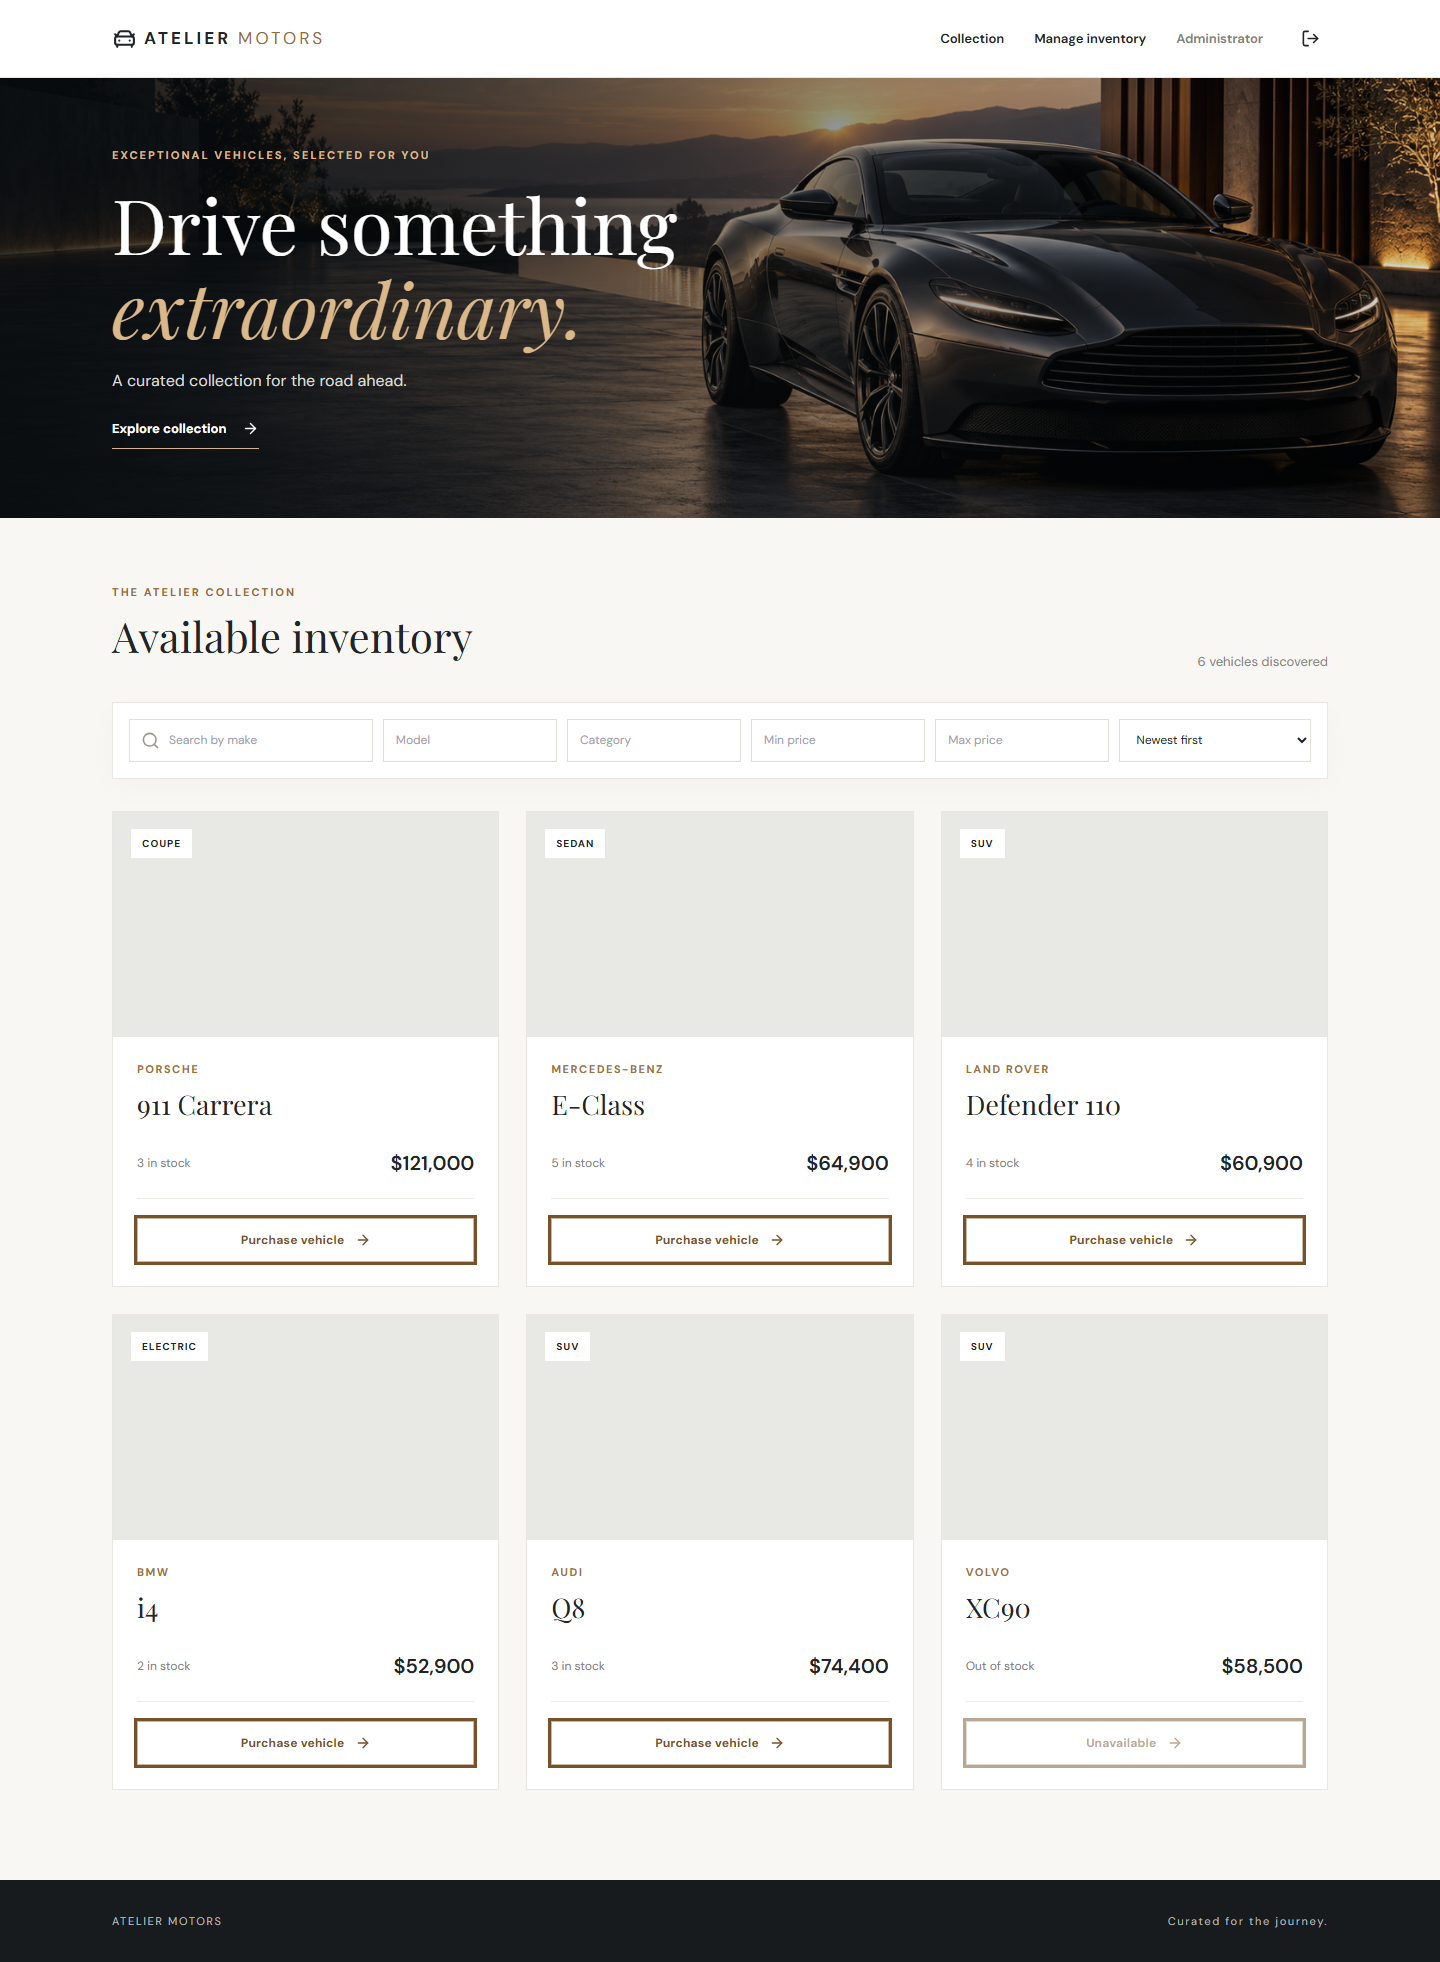
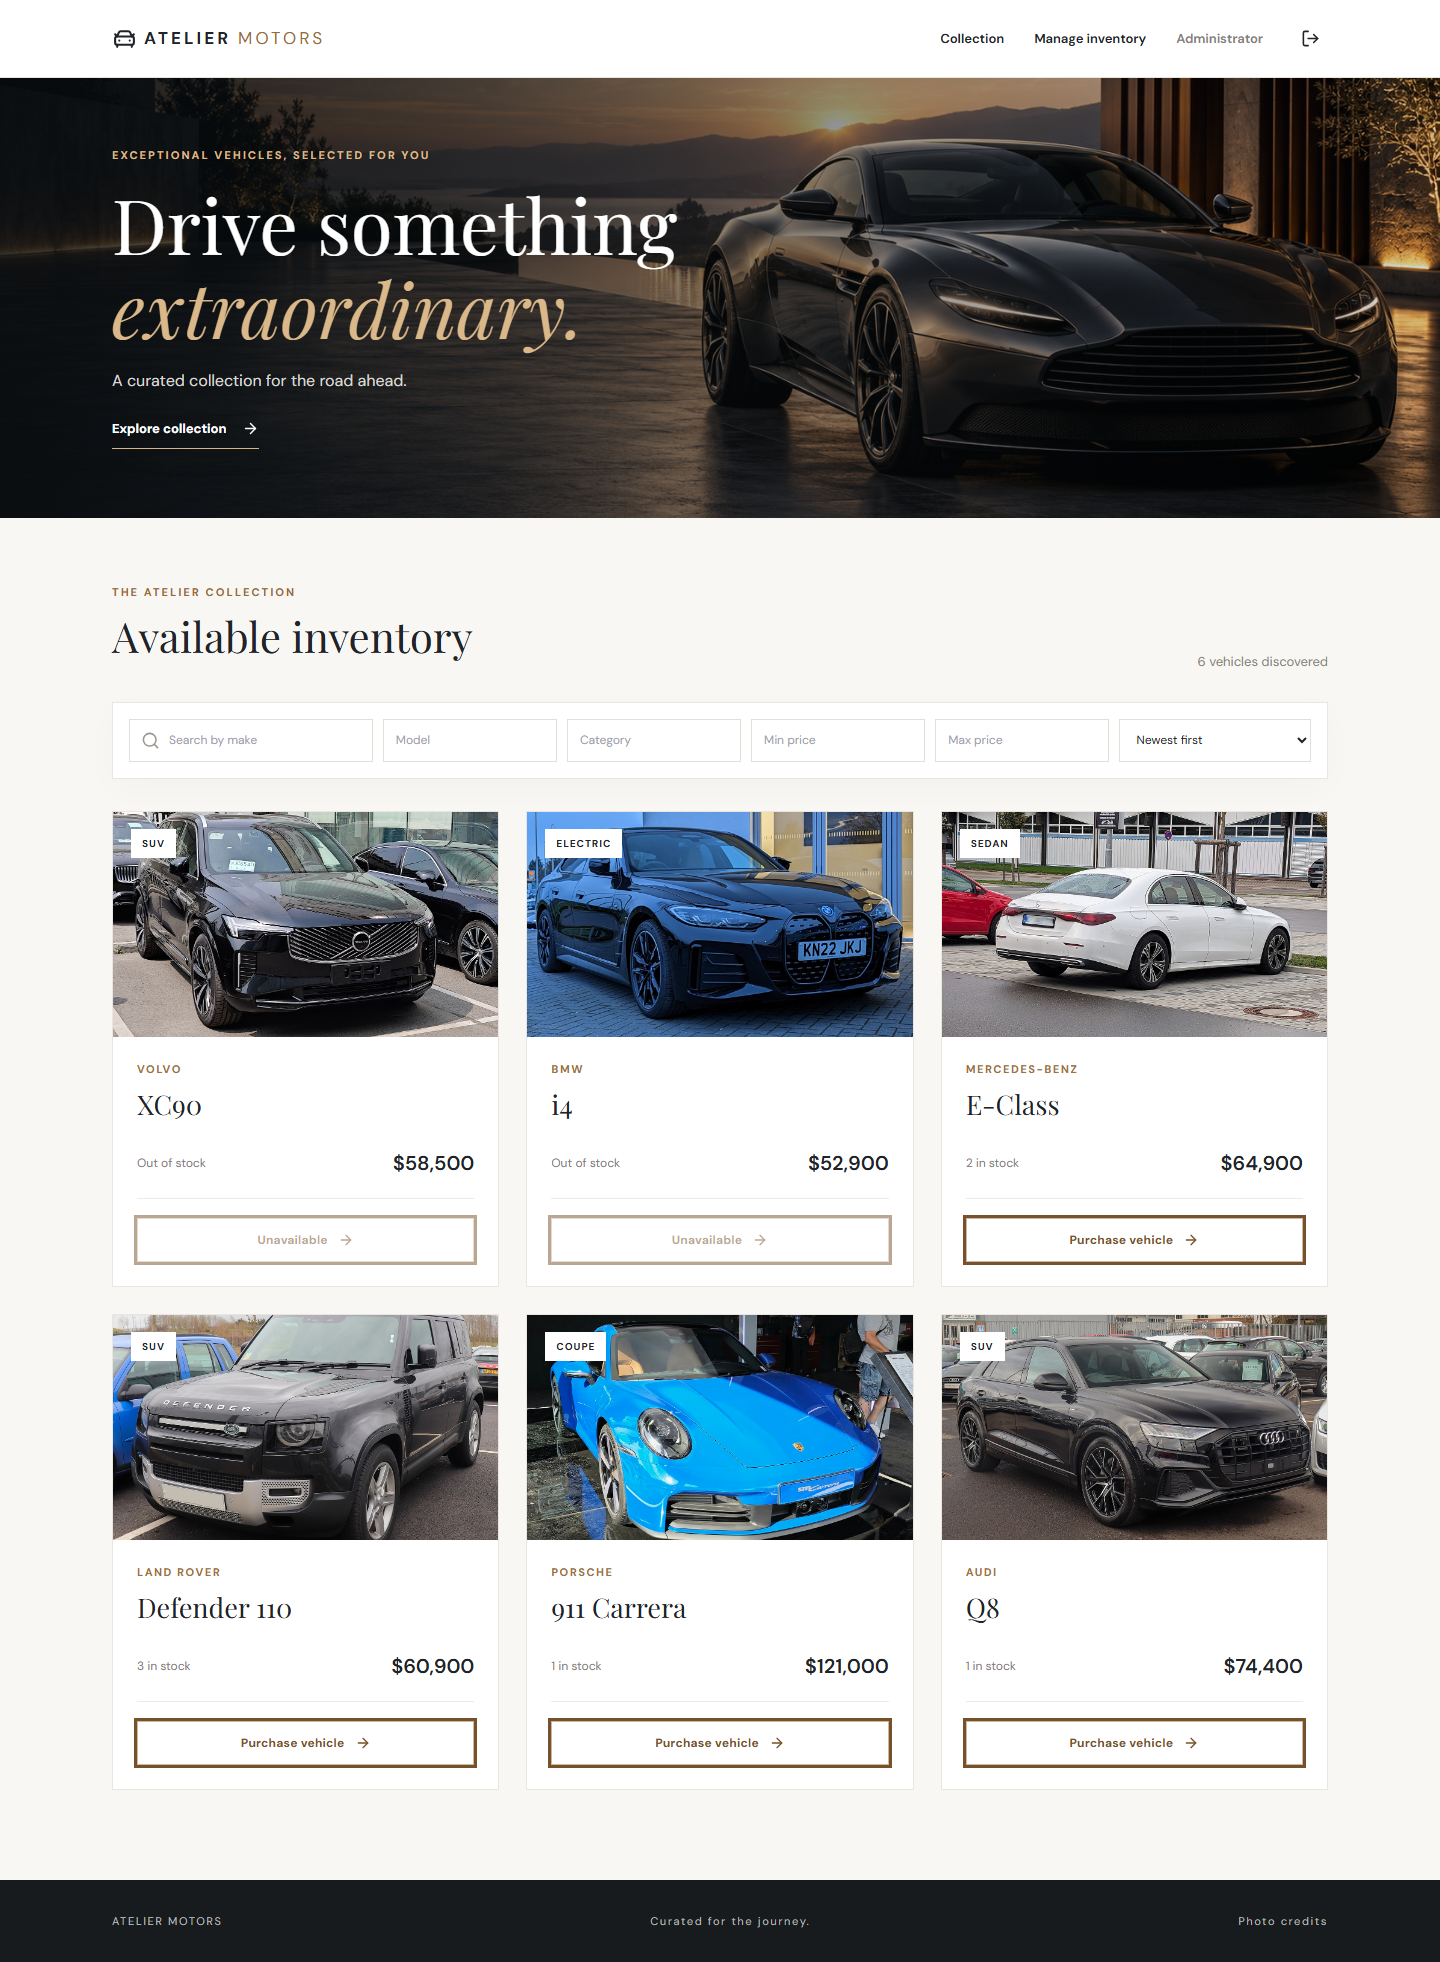
Use verified photos for each seeded vehicle model

diff --git a/apps/web/src/App.tsx b/apps/web/src/App.tsx
@@ -13,12 +13,12 @@ const registerSchema=authSchema.extend({name:z.string().min(2)});
 const vehicleSchema=z.object({make:z.string().min(1),model:z.string().min(1),category:z.string().min(1),price:z.coerce.number().min(0),quantity:z.coerce.number().int().min(0)});
 type VehicleInput=z.infer<typeof vehicleSchema>;
 const photos:Record<string,string>={
-  Porsche:'https://images.unsplash.com/photo-1503376780353-7e6692767b70?w=1000&q=80',
-  'Mercedes-Benz':'https://images.unsplash.com/photo-1618843479313-40f8afb4b4d8?w=1000&q=80',
-  'Land Rover':'https://images.unsplash.com/photo-1519641471654-76ce0107ad1b?w=1000&q=80',
-  BMW:'https://images.unsplash.com/photo-1555215695-3004980ad54e?w=1000&q=80',
-  Audi:'https://images.unsplash.com/photo-1606664515524-ed2f786a0bd6?w=1000&q=80',
-  Volvo:'https://images.unsplash.com/photo-1566933293069-b55c7f326dd4?w=1000&q=80'
+  'Porsche 911 Carrera':'/images/vehicles/porsche-911-carrera.jpg',
+  'Mercedes-Benz E-Class':'/images/vehicles/mercedes-benz-e-class.jpg',
+  'Land Rover Defender 110':'/images/vehicles/land-rover-defender-110.jpg',
+  'BMW i4':'/images/vehicles/bmw-i4.jpg',
+  'Audi Q8':'/images/vehicles/audi-q8.jpg',
+  'Volvo XC90':'/images/vehicles/volvo-xc90.jpg'
 };
 function money(value:string|number){return new Intl.NumberFormat('en-US',{style:'currency',currency:'USD',maximumFractionDigits:0}).format(Number(value))}
 function AuthPage({register=false}:{register?:boolean}){
@@ -33,7 +33,7 @@ function Inventory(){const [filters,setFilters]=useState({make:'',model:'',categ
   useEffect(()=>{void load()},[load]);
   function change(key:keyof typeof filters,value:string){setFilters(f=>({...f,[key]:value,page:1}))}
   async function purchase(vehicle:Vehicle){if(!confirm(`Purchase one ${vehicle.make} ${vehicle.model}?`))return;setBusy(vehicle.id);setMessage('');try{await vehicleApi.purchase(vehicle.id);setMessage(`Your ${vehicle.make} ${vehicle.model} purchase is confirmed.`);await load()}catch(e){setError((e as Error).message)}finally{setBusy(null)}}
-  return <><Header/><section className="hero"><div className="container"><p className="eyebrow light">EXCEPTIONAL VEHICLES, SELECTED FOR YOU</p><h1>Drive something<br/><em>extraordinary.</em></h1><p>A curated collection for the road ahead.</p><a href="#collection" className="hero-link">Explore collection <ArrowRight size={17}/></a></div></section><main id="collection" className="container collection"><div className="section-heading"><div><p className="eyebrow">THE ATELIER COLLECTION</p><h2>Available inventory</h2></div><p>{result?.total??'—'} vehicles discovered</p></div><div className="filter-bar"><label className="search-field"><Search size={19}/><input aria-label="Search make" placeholder="Search by make" value={filters.make} onChange={e=>change('make',e.target.value)}/></label><input aria-label="Model" placeholder="Model" value={filters.model} onChange={e=>change('model',e.target.value)}/><input aria-label="Category" placeholder="Category" value={filters.category} onChange={e=>change('category',e.target.value)}/><input aria-label="Minimum price" type="number" min="0" placeholder="Min price" value={filters.minPrice} onChange={e=>change('minPrice',e.target.value)}/><input aria-label="Maximum price" type="number" min="0" placeholder="Max price" value={filters.maxPrice} onChange={e=>change('maxPrice',e.target.value)}/><select aria-label="Sort vehicles" value={filters.sort} onChange={e=>change('sort',e.target.value)}><option value="newest">Newest first</option><option value="priceAsc">Price: low to high</option><option value="priceDesc">Price: high to low</option><option value="make">Make: A–Z</option></select></div>{message&&<p className="notice success" role="status">{message}</p>}{error&&<p className="notice error" role="alert">{error}</p>}{!result&&!error&&<p className="state">Loading the collection…</p>}{result?.items.length===0&&<p className="state">No vehicles match your filters. Try a broader search.</p>}<div className="vehicle-grid">{result?.items.map(v=><article className="vehicle-card" key={v.id}><div className="vehicle-image">{photos[v.make]?<img src={photos[v.make]} alt={`${v.make} ${v.model}`} loading="lazy"/>:<div className="image-fallback"><CarFront size={58}/></div>}<span className="category-badge">{v.category}</span></div><div className="vehicle-body"><p className="card-make">{v.make}</p><h3>{v.model}</h3><div className="vehicle-meta"><span>{v.quantity>0?`${v.quantity} in stock`:'Out of stock'}</span><strong>{money(v.price)}</strong></div><button className="btn outline full" disabled={v.quantity===0||busy===v.id} onClick={()=>purchase(v)}>{busy===v.id?'Processing…':v.quantity===0?'Unavailable':'Purchase vehicle'}<ArrowRight size={16}/></button></div></article>)}</div>{result&&result.total>result.limit&&<div className="pagination"><button disabled={filters.page===1} onClick={()=>setFilters(f=>({...f,page:f.page-1}))}>Previous</button><span>Page {filters.page} of {Math.ceil(result.total/result.limit)}</span><button disabled={filters.page*result.limit>=result.total} onClick={()=>setFilters(f=>({...f,page:f.page+1}))}>Next</button></div>}</main><footer><div className="container"><span>ATELIER MOTORS</span><span>Curated for the journey.</span></div></footer></>}
+  return <><Header/><section className="hero"><div className="container"><p className="eyebrow light">EXCEPTIONAL VEHICLES, SELECTED FOR YOU</p><h1>Drive something<br/><em>extraordinary.</em></h1><p>A curated collection for the road ahead.</p><a href="#collection" className="hero-link">Explore collection <ArrowRight size={17}/></a></div></section><main id="collection" className="container collection"><div className="section-heading"><div><p className="eyebrow">THE ATELIER COLLECTION</p><h2>Available inventory</h2></div><p>{result?.total??'—'} vehicles discovered</p></div><div className="filter-bar"><label className="search-field"><Search size={19}/><input aria-label="Search make" placeholder="Search by make" value={filters.make} onChange={e=>change('make',e.target.value)}/></label><input aria-label="Model" placeholder="Model" value={filters.model} onChange={e=>change('model',e.target.value)}/><input aria-label="Category" placeholder="Category" value={filters.category} onChange={e=>change('category',e.target.value)}/><input aria-label="Minimum price" type="number" min="0" placeholder="Min price" value={filters.minPrice} onChange={e=>change('minPrice',e.target.value)}/><input aria-label="Maximum price" type="number" min="0" placeholder="Max price" value={filters.maxPrice} onChange={e=>change('maxPrice',e.target.value)}/><select aria-label="Sort vehicles" value={filters.sort} onChange={e=>change('sort',e.target.value)}><option value="newest">Newest first</option><option value="priceAsc">Price: low to high</option><option value="priceDesc">Price: high to low</option><option value="make">Make: A–Z</option></select></div>{message&&<p className="notice success" role="status">{message}</p>}{error&&<p className="notice error" role="alert">{error}</p>}{!result&&!error&&<p className="state">Loading the collection…</p>}{result?.items.length===0&&<p className="state">No vehicles match your filters. Try a broader search.</p>}<div className="vehicle-grid">{result?.items.map(v=><article className="vehicle-card" key={v.id}><div className="vehicle-image">{photos[`${v.make} ${v.model}`]?<img src={photos[`${v.make} ${v.model}`]} alt={`${v.make} ${v.model}`} loading="lazy"/>:<div className="image-fallback"><CarFront size={58}/></div>}<span className="category-badge">{v.category}</span></div><div className="vehicle-body"><p className="card-make">{v.make}</p><h3>{v.model}</h3><div className="vehicle-meta"><span>{v.quantity>0?`${v.quantity} in stock`:'Out of stock'}</span><strong>{money(v.price)}</strong></div><button className="btn outline full" disabled={v.quantity===0||busy===v.id} onClick={()=>purchase(v)}>{busy===v.id?'Processing…':v.quantity===0?'Unavailable':'Purchase vehicle'}<ArrowRight size={16}/></button></div></article>)}</div>{result&&result.total>result.limit&&<div className="pagination"><button disabled={filters.page===1} onClick={()=>setFilters(f=>({...f,page:f.page-1}))}>Previous</button><span>Page {filters.page} of {Math.ceil(result.total/result.limit)}</span><button disabled={filters.page*result.limit>=result.total} onClick={()=>setFilters(f=>({...f,page:f.page+1}))}>Next</button></div>}</main><footer><div className="container"><span>ATELIER MOTORS</span><span>Curated for the journey.</span><a href="/photo-credits.html">Photo credits</a></div></footer></>}
 function Admin(){const {user}=useAuth();const [items,setItems]=useState<Vehicle[]>([]);const [editing,setEditing]=useState<Vehicle|null>(null);const [error,setError]=useState('');const [message,setMessage]=useState('');const [busy,setBusy]=useState(false);const {register,handleSubmit,reset,formState:{errors}}=useForm<z.input<typeof vehicleSchema>,unknown,VehicleInput>({resolver:zodResolver(vehicleSchema),defaultValues:{make:'',model:'',category:'',price:0,quantity:0}});
   const load=useCallback(async()=>{try{setItems((await vehicleApi.list(new URLSearchParams({limit:'100'}))).items)}catch(e){setError((e as Error).message)}},[]);useEffect(()=>{void load()},[load]);
   if(user?.role!=='ADMIN')return <Navigate to="/" replace/>;

diff --git a/apps/web/public/photo-credits.html b/apps/web/public/photo-credits.html
@@ -1,0 +1,25 @@
+<!doctype html>
+<html lang="en">
+<head>
+  <meta charset="utf-8">
+  <meta name="viewport" content="width=device-width, initial-scale=1">
+  <title>Vehicle photo credits · Atelier Motors</title>
+  <style>
+    body{max-width:760px;margin:50px auto;padding:0 24px;font:16px/1.6 Arial,sans-serif;color:#202327;background:#f8f7f4}
+    h1{font:normal 36px Georgia,serif}li{margin:16px 0}a{color:#795129}
+  </style>
+</head>
+<body>
+  <p><a href="/">← Back to Atelier Motors</a></p>
+  <h1>Vehicle photo credits</h1>
+  <p>These model-specific photos are resized to 1,280 pixels wide. No other edits were made.</p>
+  <ul>
+    <li>Porsche 911 Carrera — <a href="https://commons.wikimedia.org/wiki/File:2024_Porsche_911_992_Carrera.jpg">Calreyn88</a>, <a href="https://creativecommons.org/licenses/by-sa/4.0/">CC BY-SA 4.0</a>.</li>
+    <li>Mercedes-Benz E-Class — <a href="https://commons.wikimedia.org/wiki/File:Mercedes-Benz_E-Klasse_(W214)_164600354.jpg">Trop86</a>, <a href="https://creativecommons.org/publicdomain/zero/1.0/">CC0</a>.</li>
+    <li>Land Rover Defender 110 — <a href="https://commons.wikimedia.org/wiki/File:2020_Land_Rover_Defender_D240_SE_Automatic_2.0_Front.jpg">Vauxford</a>, <a href="https://creativecommons.org/licenses/by-sa/4.0/">CC BY-SA 4.0</a>.</li>
+    <li>BMW i4 — <a href="https://commons.wikimedia.org/wiki/File:2022_BMW_i4_M50.jpg">Calreyn88</a>, <a href="https://creativecommons.org/licenses/by-sa/4.0/">CC BY-SA 4.0</a>.</li>
+    <li>Audi Q8 — <a href="https://commons.wikimedia.org/wiki/File:2019_Audi_Q8_Front.jpg">Vauxford</a>, <a href="https://creativecommons.org/licenses/by-sa/4.0/">CC BY-SA 4.0</a>.</li>
+    <li>Volvo XC90 — <a href="https://commons.wikimedia.org/wiki/File:Volvo_XC90_II_facelift_001.jpg">Zoerides</a>, <a href="https://creativecommons.org/publicdomain/zero/1.0/">CC0</a>.</li>
+  </ul>
+</body>
+</html>

diff --git a/README.md b/README.md
@@ -96,7 +96,7 @@ The first Render build failed because `NODE_ENV=production` caused npm to omit T
 
 ## Security and limitations
 
-JWTs expire after the configured interval. The API validates requests, hashes passwords, applies auth rate limiting, restricts CORS to configured origins, redacts authorization headers from request logs, and hides internal errors from clients. The frontend stores JWTs in `localStorage`, which is convenient for this assignment but exposed to script injection; a production product should consider secure HTTP-only cookies and a reviewed CSRF strategy. Vehicle imagery and web fonts use external hosts and may be unavailable offline. Purchases model inventory reduction; payment and order records are outside this kata.
+JWTs expire after the configured interval. The API validates requests, hashes passwords, applies auth rate limiting, restricts CORS to configured origins, redacts authorization headers from request logs, and hides internal errors from clients. The frontend stores JWTs in `localStorage`, which is convenient for this assignment but exposed to script injection; a production product should consider secure HTTP-only cookies and a reviewed CSRF strategy. The six seeded models use bundled, model-specific vehicle photos with [source and license credits](apps/web/public/photo-credits.html); other models show a neutral icon. Web fonts use external hosts and may be unavailable offline. Purchases model inventory reduction; payment and order records are outside this kata.
 
 Troubleshooting: if the API fails at startup, confirm `apps/api/.env`, database availability, and a 32+ character `JWT_SECRET`. If migration fails, confirm the database credentials and SSL settings in Neon. If browser requests fail, check `VITE_API_BASE_URL` and `FRONTEND_URL` for exact origins. If Prisma Client is missing, run `npm exec -w @inventory/api prisma generate`.
 

diff --git a/test-report.md b/test-report.md
@@ -43,4 +43,6 @@ The first Render build and an automatic retry failed because `NODE_ENV=productio
 
 ## Remaining issues
 
-The initial red test run and an incremental red-green-refactor commit trail were not captured. `PROMPTS.md` contains the available raw master prompt; complete AI responses and other chat logs need the owner's export. External vehicle images may fail in restricted browsers; the login and hero artwork is local and renders correctly.
+On 25 October 2026, the six seed-vehicle cards were changed from make-only external URLs to bundled photos matched by exact make and model. Each image was checked visually against its Wikimedia Commons file page, and attribution was added at `/photo-credits.html`. The web build passed. The live Vercel deployment returned HTTP 200 for all six image assets and the credits page, and Chromium confirmed that every card loaded the matching local path and photo.
+
+The initial red test run and an incremental red-green-refactor commit trail were not captured. `PROMPTS.md` contains the available raw master prompt; complete AI responses and other chat logs need the owner's export.
